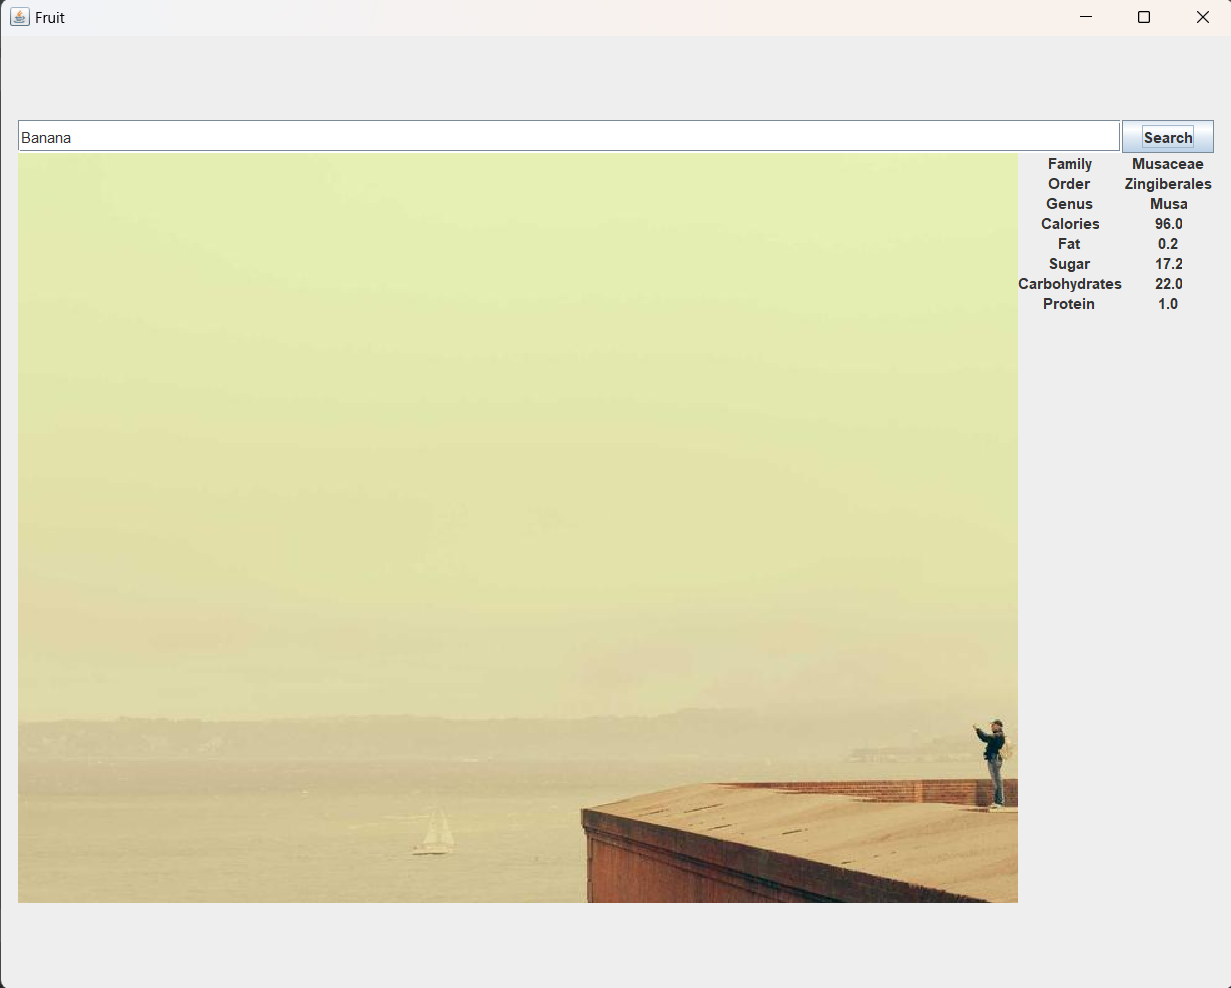
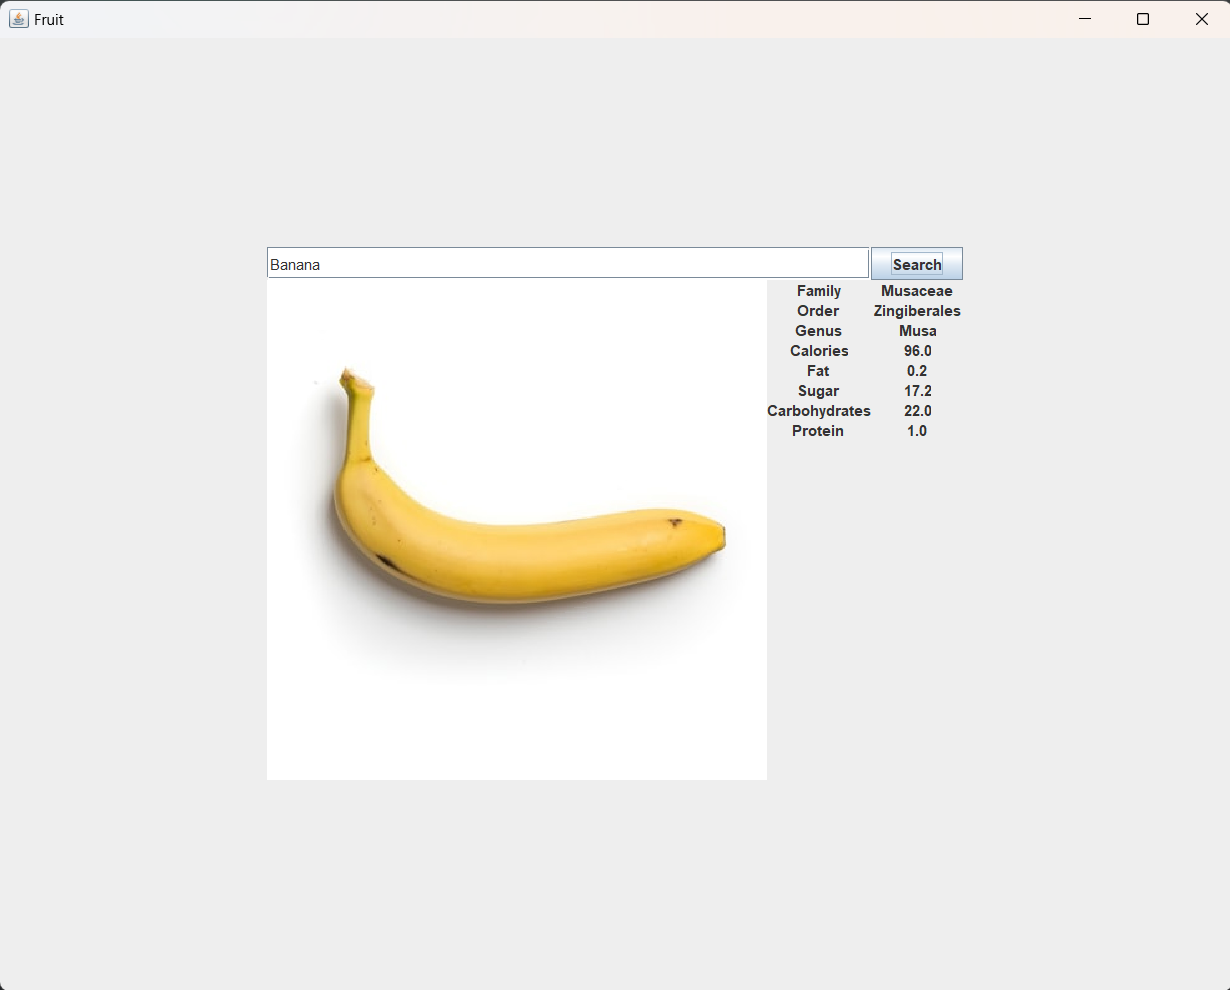
Used Unsplash API to display image of the fruit entered by user. Updated README.

diff --git a/src/main/java/khayyat/fruity/FruityController.java b/src/main/java/khayyat/fruity/FruityController.java
@@ -1,7 +1,10 @@
 package khayyat.fruity;
 
+import com.andrewoid.apikeys.ApiKey;
 import io.reactivex.rxjava3.disposables.Disposable;
 import io.reactivex.rxjava3.schedulers.Schedulers;
+import khayyat.fruity.unsplash.Photos;
+import khayyat.fruity.unsplash.UnsplashService;
 
 import javax.swing.*;
 import java.net.MalformedURLException;
@@ -9,7 +12,8 @@ import java.net.URL;
 
 public class FruityController
 {
-    private final FruityService service;
+    private final FruityService fruityService;
+    private final UnsplashService unsplashService;
 
     private final JTextField searchField;
     private final JLabel picLabel;
@@ -23,11 +27,12 @@ public class FruityController
     private final JLabel proteinValueLabel;
 
     public FruityController(
-            FruityService service, JTextField searchField, JLabel picLabel, JLabel familyValueLabel,
+            FruityService fruityService, UnsplashService unsplashService, JTextField searchField, JLabel picLabel, JLabel familyValueLabel,
             JLabel orderValueLabel, JLabel genusValueLabel, JLabel caloriesValueLabel, JLabel fatValueLabel,
             JLabel sugarValueLabel, JLabel carbsValueLabel, JLabel proteinValueLabel)
     {
-        this.service = service;
+        this.fruityService = fruityService;
+        this.unsplashService = unsplashService;
         this.searchField = searchField;
         this.picLabel = picLabel;
         this.familyValueLabel = familyValueLabel;
@@ -43,17 +48,29 @@ public class FruityController
     public void doSearch()
     {
         String fruitName = searchField.getText();
-        Disposable disposable = service.getFruit(fruitName)
+        Disposable disposableFruit = fruityService.getFruit(fruitName)
                 // tells Rx to request the data on a background Thread
                 .subscribeOn(Schedulers.io())
                 // tells Rx to handle the response on Swing's main Thread
                 .observeOn(Schedulers.from(SwingUtilities::invokeLater))
                 .subscribe(
-                    (this::handleResponse),
+                    (this::handleResponseFruit),
                     Throwable::printStackTrace);
+
+        ApiKey apiKey = new ApiKey();
+        String keyString = apiKey.get();
+        Disposable disposablePhoto = unsplashService.search(keyString,
+                fruitName)
+                // tells Rx to request the data on a background Thread
+                .subscribeOn(Schedulers.io())
+                // tells Rx to handle the response on Swing's main Thread
+                .observeOn(Schedulers.from(SwingUtilities::invokeLater))
+                .subscribe(
+                        (this::handleResponsePhotos),
+                        Throwable::printStackTrace);
     }
 
-    private void handleResponse(Fruit fruit)
+    private void handleResponseFruit(Fruit fruit)
     {
         picLabel.setBackground(picLabel.getBackground());
         familyValueLabel.setText(fruit.family());
@@ -65,10 +82,13 @@ public class FruityController
         sugarValueLabel.setText(String.valueOf(nutritions.sugar()));
         carbsValueLabel.setText(String.valueOf(nutritions.carbohydrates()));
         proteinValueLabel.setText(String.valueOf(nutritions.protein()));
+    }
 
+    private void handleResponsePhotos(Photos photos)
+    {
         try
         {
-            ImageIcon imageIcon = new ImageIcon(new URL("https://picsum.photos/800/600"));
+            ImageIcon imageIcon = new ImageIcon(new URL(photos.results()[0].urls().small()));
             picLabel.setIcon(imageIcon);
         } catch (MalformedURLException e)
         {

diff --git a/src/main/java/khayyat/fruity/FruityFrame.java b/src/main/java/khayyat/fruity/FruityFrame.java
@@ -1,5 +1,8 @@
 package khayyat.fruity;
 
+import khayyat.fruity.unsplash.UnsplashService;
+import khayyat.fruity.unsplash.UnsplashServiceFactory;
+
 import javax.swing.*;
 import java.awt.*;
 import java.awt.event.ActionEvent;
@@ -15,7 +18,8 @@ public class FruityFrame extends JFrame
 
         setLayout(new GridBagLayout());
 
-        final FruityService service = new FruityServiceFactory().create();
+        final FruityService fruityService = new FruityServiceFactory().create();
+        final UnsplashService unsplashService = new UnsplashServiceFactory().create();
 
         final String initialFruitName = "Strawberry";
         final JTextField searchField = new JTextField(initialFruitName);
@@ -41,8 +45,9 @@ public class FruityFrame extends JFrame
         final JLabel proteinValueLabel = new JLabel();
 
         final FruityController controller = new FruityController(
-                service, searchField, picLabel, familyValueLabel, orderValueLabel, genusValueLabel,
-                caloriesValueLabel, fatValueLabel, sugarValueLabel, carbsValueLabel, proteinValueLabel);
+                fruityService, unsplashService, searchField, picLabel, familyValueLabel, orderValueLabel,
+                genusValueLabel, caloriesValueLabel, fatValueLabel, sugarValueLabel, carbsValueLabel,
+                proteinValueLabel);
 
         searchButton.addActionListener(new ActionListener()
         {

diff --git a/README.md b/README.md
@@ -1,8 +1,8 @@
 ### Fruit Information Generator
 
 Program to display image of and information about a fruit entered by user.
-The information is accessed through the internet, using the Fruityvice api.
-The image generated does not yet match the fruit or respond to changing input; I am still working on that part.
+The information is accessed through the internet, using the Fruityvice API.
+The image is also accessed through the internet, using the Unsplash API.
 ### Screenshots
 
 ![GUI displaying image and information for banana](screenshots/Screenshot1.png)
@@ -10,6 +10,7 @@ The image generated does not yet match the fruit or respond to changing input; I
 #### Links
 
 - [FruityVice](https://www.fruityvice.com/)
+- [Unsplash](https://unsplash.com/)
 - [RxJava](https://reactivex.io/)
 - [Retrofit](https://square.github.io/retrofit/)
 - [JUnit](https://junit.org/)
